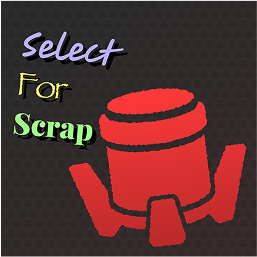
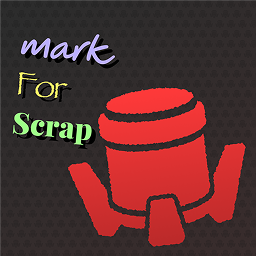
Renamed SelectForScrap->MarkForScrap

diff --git a/MarkForScrap/MarkForScrap.cs b/MarkForScrap/MarkForScrap.cs
@@ -10,15 +10,15 @@ using UnityEngine.Networking;
 #pragma warning disable CS0618 // Type or member is obsolete
 [assembly: SecurityPermission( SecurityAction.RequestMinimum, SkipVerification = true )]
 
-namespace SelectForScrap;
+namespace MarkForScrap;
 
 [BepInDependency("com.rune580.riskofoptions")]
 [BepInPlugin(MyPluginInfo.PLUGIN_GUID, MyPluginInfo.PLUGIN_NAME, MyPluginInfo.PLUGIN_VERSION)]
-public class SelectForScrapPlugin : BaseUnityPlugin
+public class MarkForScrapPlugin : BaseUnityPlugin
 {
     public void Awake()
     {
-        Debug.Log("[SelectForScrap] SelectForScrapPlugin.Awake()");
+        Debug.Log("[MarkForScrap] MarkForScrapPlugin.Awake()");
         InitConfig();
 
         // Make sure we mark the inventory list in the top-bar for later use
@@ -37,7 +37,7 @@ public class SelectForScrapPlugin : BaseUnityPlugin
 
     public void OnDestroy()
     {
-        Debug.Log("[SelectForScrap] SelectForScrapPlugin.OnDestroy()");
+        Debug.Log("[MarkForScrap] MarkForScrapPlugin.OnDestroy()");
 
         On.RoR2.UI.HUD.Awake -= HUD_Awake;
         On.RoR2.UI.ItemIcon.Awake -= ItemIcon_Awake;
@@ -48,7 +48,7 @@ public class SelectForScrapPlugin : BaseUnityPlugin
     private void Interactor_PerformInteraction(On.RoR2.Interactor.orig_PerformInteraction orig, Interactor activator, GameObject interactableObject)
     {
         if (!NetworkServer.active) { orig(activator, interactableObject); return; }
-        Debug.Log("[SelectForScrap] SelectForScrapPlugin.Interactor_PerformInteraction()");
+        Debug.Log("[MarkForScrap] MarkForScrapPlugin.Interactor_PerformInteraction()");
 
         var controller = interactableObject.GetComponentInParent<ScrapperController>();
         if (!controller) { orig(activator, interactableObject); return; }
@@ -59,7 +59,7 @@ public class SelectForScrapPlugin : BaseUnityPlugin
         if (!(scrapCounter && scrapCounter.HasItemsToScrap())) { orig(activator, interactableObject); return; }
 
         ItemIndex itemToScrap = scrapCounter.Take();
-        Debug.Log($"[SelectForScrap] SelectForScrapPlugin.Interactor_PerformInteraction() | Took {itemToScrap}");
+        Debug.Log($"[MarkForScrap] MarkForScrapPlugin.Interactor_PerformInteraction() | Took {itemToScrap}");
 
         var pickup = PickupCatalog.FindPickupIndex(itemToScrap);
         controller.AssignPotentialInteractor(activator);
@@ -70,11 +70,11 @@ public class SelectForScrapPlugin : BaseUnityPlugin
     {
         orig(self);
 
-        Debug.Log("[SelectForScrap] SelectForScrapPlugin.NetworkUser_Start()");
+        Debug.Log("[MarkForScrap] MarkForScrapPlugin.NetworkUser_Start()");
 
         if (!self.GetComponent<InventoryScrapCounter>())
         {
-            Debug.Log("[SelectForScrap] SelectForScrapPlugin.NetworkUser_Start() | Adding InventoryScrapCounter");
+            Debug.Log("[MarkForScrap] MarkForScrapPlugin.NetworkUser_Start() | Adding InventoryScrapCounter");
             self.gameObject.AddComponent<InventoryScrapCounter>();
         }
     }
@@ -84,7 +84,7 @@ public class SelectForScrapPlugin : BaseUnityPlugin
         orig(self);
         if (!NetworkClient.active) return;
 
-        Debug.Log("[SelectForScrap] SelectForScrapPlugin.HUD_Awake()");
+        Debug.Log("[MarkForScrap] MarkForScrapPlugin.HUD_Awake()");
 
         var invDisplay = self.itemInventoryDisplay;
 
@@ -99,11 +99,11 @@ public class SelectForScrapPlugin : BaseUnityPlugin
         orig(self);
         if (!NetworkClient.active) return;
 
-        // Debug.Log("[SelectForScrap] SelectForScrapPlugin.ItemIcon_Awake()");
+        // Debug.Log("[MarkForScrap] MarkForScrapPlugin.ItemIcon_Awake()");
 
         if (!self.GetComponentInParent<MainInventoryMarker>()) return;
 
-        Debug.Log("[SelectForScrap] SelectForScrapPlugin.ItemIcon_Awake() | Got ItemIcon the main inventory");
+        Debug.Log("[MarkForScrap] MarkForScrapPlugin.ItemIcon_Awake() | Got ItemIcon the main inventory");
 
         if (self.GetComponent<ItemIconScrapSelector>()) return;
 

diff --git a/MarkForScrap/InventoryScrapCounter.cs b/MarkForScrap/InventoryScrapCounter.cs
@@ -2,7 +2,7 @@ using RoR2;
 using UnityEngine;
 using UnityEngine.Networking;
 
-namespace SelectForScrap
+namespace MarkForScrap
 {
     [DisallowMultipleComponent]
     [RequireComponent(typeof(NetworkUser))]
@@ -23,24 +23,24 @@ namespace SelectForScrap
         [ServerCallback]
         public void Start()
         {
-            Debug.Log("[SelectForScrap] ScrapCounter.Start()");
+            Debug.Log("[MarkForScrap] ScrapCounter.Start()");
             if (isServer)
             {
                 markedForScrap.Clear();
                 for (int i = 0; i < ItemCatalog.itemCount; i++) markedForScrap.Add(false);
             }
 
-            Debug.Log($"[SelectForScrap] ScrapCounter.Start() | ItemCatalog count: {ItemCatalog.itemCount}");
+            Debug.Log($"[MarkForScrap] ScrapCounter.Start() | ItemCatalog count: {ItemCatalog.itemCount}");
         }
 
         public void OnCharacterMasterStart(CharacterMaster master)
         {
-            Debug.Log("[SelectForScrap] ScrapCounter.OnCharacterMasterStart()");
+            Debug.Log("[MarkForScrap] ScrapCounter.OnCharacterMasterStart()");
 
             var pcmc = master.playerCharacterMasterController;
             if (pcmc && pcmc.networkUser == networkUser) inventory = pcmc.master.inventory;
 
-            Debug.Log($"[SelectForScrap] ScrapCounter.OnCharacterMasterStart() | Inventory found: {inventory != null}");
+            Debug.Log($"[MarkForScrap] ScrapCounter.OnCharacterMasterStart() | Inventory found: {inventory != null}");
 
             if (inventory && isServer) inventory.onInventoryChanged += SyncScrapCountWithInventory;
         }
@@ -59,7 +59,7 @@ namespace SelectForScrap
 
         public bool HasItemsToScrap()
         {
-            Debug.Log("[SelectForScrap] ScrapCounter.HasItemsToScrap()");
+            Debug.Log("[MarkForScrap] ScrapCounter.HasItemsToScrap()");
             for (int i = 0; i < markedForScrap.Count; i++) { if (markedForScrap[i]) return true; }
             return false;
         }
@@ -69,20 +69,20 @@ namespace SelectForScrap
         {
             if (!Utils.ItemUtils.IsScrappable(idx)) return;
 
-            Debug.Log("[SelectForScrap] ScrapCounter.CmdSetItemMark()");
+            Debug.Log("[MarkForScrap] ScrapCounter.CmdSetItemMark()");
 
             int intIdx = (int)idx;
             while (intIdx >= markedForScrap.Count) markedForScrap.Add(false);
 
             if (markedForScrap[intIdx] != marked) markedForScrap[intIdx] = marked;
 
-            Debug.Log($"[SelectForScrap] ScrapCounter.CmdSetItemMark() | {idx} : {marked}");
+            Debug.Log($"[MarkForScrap] ScrapCounter.CmdSetItemMark() | {idx} : {marked}");
         }
 
         [Server]
         private void SyncScrapCountWithInventory()
         {
-            Debug.Log("[SelectForScrap] ScrapCounter.SyncScrapCountWithInventory()");
+            Debug.Log("[MarkForScrap] ScrapCounter.SyncScrapCountWithInventory()");
 
             for (int i = 0; i < markedForScrap.Count; ++i)
             {
@@ -94,7 +94,7 @@ namespace SelectForScrap
         [Server]
         public ItemIndex Take()
         {
-            Debug.Log("[SelectForScrap] ScrapCounter.Take()");
+            Debug.Log("[MarkForScrap] ScrapCounter.Take()");
 
             if (!HasItemsToScrap()) throw new System.Exception("No items marked for scrap");
 

diff --git a/MarkForScrap/ItemIconScrapSelector.cs b/MarkForScrap/ItemIconScrapSelector.cs
@@ -5,7 +5,7 @@ using UnityEngine.EventSystems;
 using System.IO;
 using UnityEngine.UI;
 
-namespace SelectForScrap
+namespace MarkForScrap
 {
     [DisallowMultipleComponent]
     [RequireComponent(typeof(ItemIcon))]
@@ -15,7 +15,7 @@ namespace SelectForScrap
         private static Sprite markSprite;
         private Image image;
         private Image imageShadow;
-        private const string markPngPath = "C:/Users/elizabeth/core/git/SelectForScrap/icon-scrapper.png";
+        private const string markPngPath = "C:/Users/elizabeth/core/git/MarkForScrap/icon-scrapper.png";
 
         public ItemIndex idx
         {
@@ -24,7 +24,7 @@ namespace SelectForScrap
 
         public void Awake()
         {
-            Debug.Log("[SelectForScrap] Scrappable.Awake()");
+            Debug.Log("[MarkForScrap] Scrappable.Awake()");
 
             icon = GetComponent<ItemIcon>();
 
@@ -33,7 +33,7 @@ namespace SelectForScrap
 
         public void LateUpdate()
         {
-            // Debug.Log("[SelectForScrap] Scrappable.LateUpdate()");
+            // Debug.Log("[MarkForScrap] Scrappable.LateUpdate()");
 
             var scrapCounter = Utils.LocalUser.scrapCounter;
             bool isMarked = scrapCounter ? scrapCounter.IsMarked(idx) : false;
@@ -43,7 +43,7 @@ namespace SelectForScrap
 
         public void OnPointerClick(PointerEventData eventData)
         {
-            Debug.Log("[SelectForScrap] Scrappable.OnPointerClick()");
+            Debug.Log("[MarkForScrap] Scrappable.OnPointerClick()");
 
             if (!Utils.ItemUtils.IsScrappable(idx)) return;
 
@@ -56,7 +56,7 @@ namespace SelectForScrap
             if (!scrapCounter) return;
 
             scrapCounter.FlipMark(idx);
-            Debug.Log($"[SelectForScrap] Scrappable.OnPointerClick() | Item: {idx}, IsMarked: {scrapCounter.IsMarked(idx)}");
+            Debug.Log($"[MarkForScrap] Scrappable.OnPointerClick() | Item: {idx}, IsMarked: {scrapCounter.IsMarked(idx)}");
         }
 
         public void EnsureSprite()
@@ -77,7 +77,7 @@ namespace SelectForScrap
 
         public void InitUI()
         {
-            Debug.Log("[SelectForScrap] Scrappable.InitUI()");
+            Debug.Log("[MarkForScrap] Scrappable.InitUI()");
 
             EnsureSprite();
 

diff --git a/MarkForScrap/Utils/ItemUtils.cs b/MarkForScrap/Utils/ItemUtils.cs
@@ -1,6 +1,6 @@
 using RoR2;
 
-namespace SelectForScrap.Utils
+namespace MarkForScrap.Utils
 {
     public static class ItemUtils
     {

diff --git a/MarkForScrap/Utils/LocalUser.cs b/MarkForScrap/Utils/LocalUser.cs
@@ -1,6 +1,6 @@
 using RoR2;
 
-namespace SelectForScrap.Utils
+namespace MarkForScrap.Utils
 {
     public static class LocalUser
     {

diff --git a/README.md b/README.md
@@ -1,4 +1,4 @@
-# SelectForScrap
+# MarkForScrap
 
 A mod that allows you to select items from your inventory that will be automagically scrapped the next time you use a scrapper.
 
